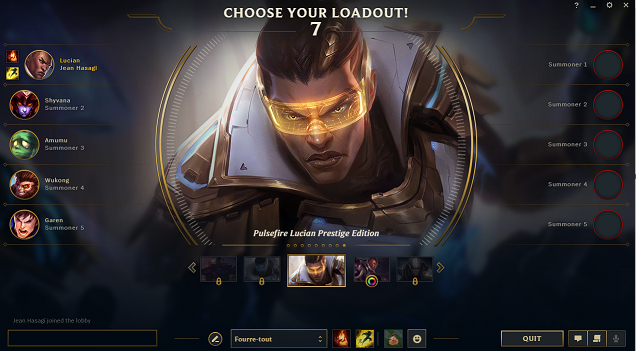
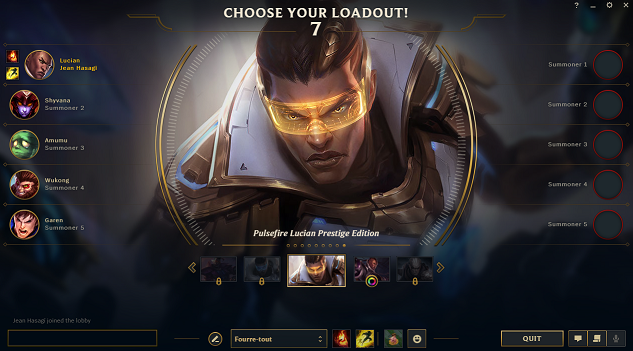
Correction de problèmes divers
- Image mal croppée
- Orthographe

diff --git a/map.html b/map.html
@@ -29,7 +29,7 @@
             <p class="caption">La carte de la Faille de l'invocateur, carte du mode de jeu principal. On peut y voir dans quelle direction doit se rendre chaque rôle.</p>
             <br>
             <div class="flexed_image">
-                <p>La Faille de l’Invocateur est une carte symétrique permettant un équilibre entre les équipe. Elle est délimitée par des voies (une en haut: le top, une au milieu: le mid et une en bas: le bot). Ces voies relient les deux bases entre-elles. Chaque équipe possède sur chacune d’elles deux tourelles que les joueurs devront attaquer pour avancer dans la base ennemie. Enfin, chaque base est défendue à ses portes par trois tours, derrière lesquelles sont protégés les inhibiteurs. Le coeur de la base, le nexus, est quant à lui défendu par deux tours, accessibles seulement si un inhibiteur a été détruit.</p>
+                <p>La Faille de l’Invocateur est une carte symétrique permettant un équilibre entre les équipes. Elle est délimitée par des voies (une en haut: le top, une au milieu: le mid et une en bas: le bot). Ces voies relient les deux bases entre-elles. Chaque équipe possède sur chacune d’elles deux tourelles que les joueurs devront attaquer pour avancer dans la base ennemie. Enfin, chaque base est défendue à ses portes par trois tours, derrière lesquelles sont protégés les inhibiteurs. Le coeur de la base, le nexus, est quant à lui défendu par deux tours, accessibles seulement si un inhibiteur a été détruit.</p>
                 <div>
                     <img src="images/map/Minimap.png" alt="La minimap" title="La minimap" width="128px"/>
                     <p class="caption" style="margin-left: 20px">La minimap</p>
@@ -68,8 +68,8 @@
                     <p class="caption">Le roncier rouge</p>
                 </div>
                 <div>
-                    <img src="images/map/Wolves.png" alt="Un des camps de monstre neutre" title="Un des camps de monstre neutre" height="200px"/>
-                    <p class="caption">Un des camps de monstre neutre</p>
+                    <img src="images/map/Wolves.png" alt="Un des camps de monstres neutres" title="Un des camps de monstres neutres" height="200px"/>
+                    <p class="caption">Un des camps de monstres neutres</p>
                 </div>
             </div>
             <br>
@@ -107,7 +107,7 @@
                 </div>
             </div>
             <br>
-            <p>À l’opposé se trouve l’enclos du Baron Nashor, octroyant un bonus des caractéristiques majeur et un bonus résistance et de dégâts sur les sbires alliés se trouvant à proximité. À noter qu'avant vingt minutes de jeu, le héraut de la faille est présent dans cet enclos à la place. La tuer permet d'obtenir un oeil de l'héraut. Cet objet sert à l'invoquer dans une ligne pour qu'elle attaque les tours adverses de cette ligne. Les dragons et le baron nashor sont les seuls points d'asymétrie de la carte, ce qui permettra un accès privilégié dans certaines conditions à chacun de ces enclos.</p>
+            <p>À l’opposé se trouve l’enclos du Baron Nashor, octroyant un bonus majeur des caractéristiques ainsi qu'un bonus de résistances et de dégâts pour les sbires alliés se trouvant à proximité de vous pendant trois minutes ou jusqu'à votre mort. À noter qu'avant vingt minutes de jeu, le héraut de la faille est présent dans cet enclos à la place. La tuer permet d'obtenir un oeil de l'héraut. Cet objet sert à l'invoquer dans une ligne pour qu'elle attaque les tours adverses de cette ligne. Les dragons et le baron nashor sont les seuls points d'asymétrie de la carte, ce qui permettra un accès privilégié dans certaines conditions à chacun de ces enclos.</p>
             <div class="flexed_image_centered">
                 <div>
                     <img src="images/map/Nashor.jpg" alt="Le baron Nashor" title="Le baron Nashor" height="200px"/>

diff --git a/data_items.js b/data_items.js
@@ -8,8 +8,8 @@ const data_items = [
     {"nom" : "Soif-de-sang",                "img" : "The_Bloodthirster_item.png",                  "description" : "Octroie un bonus d’AD et du vol de vie sur les attaques de base. Ce vol de vie permet de générer un bouclier avec les soins excessifs."},
     {"nom" : "Le couperet noir",            "img" : "The_Black_Cleaver_item.png",                  "description" : "Octroie un bonus de vie, d’AD et un bonus de vitesse de déplacement après avoir réussi une attaque de base. Vos attaques réduisent progressivement l’armure de la cible (jusqu’à -24%)."},
     {"nom" : "Fléau de liche",              "img" : "Lich_Bane_item.png",                          "description" : "Octroie un bonus d’AP, de mana et de vitesse de déplacement. Les dégâts d’une attaque de base suivant un sort sont augmentés et infligeront des dégâts magiques supplémentaires."},
-    {"nom" : "Zhonya",                      "img" : "Zhonya%2527s_Hourglass_item.png",             "description" : "Octroie un bonus d’AP et d’armure. Activable, vous devenez <b>invulnérable</b> pendant 3 secondes."},
-    {"nom" : "Guardian Angel",              "img" : "Guardian_Angel_item.png",                     "description" : "Lorsque vous mourrez, vous ressuscite avec la moitié de votre vie maximale et un tiers de votre mana. Gros cooldown."},
+    {"nom" : "Sablier de Zhonya",           "img" : "Zhonya%2527s_Hourglass_item.png",             "description" : "Octroie un bonus d’AP et d’armure. Activable, vous devenez <b>invulnérable</b> pendant 3 secondes."},
+    {"nom" : "Ange gardien",                "img" : "Guardian_Angel_item.png",                     "description" : "Lorsque vous mourrez, vous ressuscite avec la moitié de votre vie maximale et un tiers de votre mana. Gros cooldown."},
     {"nom" : "Lame du roi déchu",           "img" : "Blade_of_the_Ruined_King_item.png",           "description" : "Octroie un bonus d’AD, de vitesse d’attaque et du vol de vie. Vos attaques de base font des dégâts bonus en fonction des points de vie actuels de votre cible. Activable: vous volez de la vitesse de mouvement à votre cible."},
     {"nom" : "Ouragan de Runaan",           "img" : "Runaan%2527s_Hurricane_item.png",             "description" : "Octroie un bonus de vitesse d’attaque et augmente le taux des coups critiques. Vos attaques de base touchent deux cibles supplémentaires leur infligeant 40% des dégâts initiaux."},
     {"nom" : "Voeu du chevalier",           "img" : "Knight%2527s_Vow_item.png",                   "description" : "Octroie un bonus de vie et d’armure. Activable, vous vous liez à un allié. Vous vous accordez un bonus d’armure lorsque vous êtes proches, de plus vous prendrez une partie des dégâts à la place de l’allié choisi, les dégâts causés par cet allié vous rendront de la vie."},

diff --git a/leagues.html b/leagues.html
@@ -25,8 +25,8 @@
     <main>
         <div class="content">
             <h2 class="no_top_space">Le jeu compétitif et les leagues</h2>
-            <p>Lors de votre voyage au sein de League of Legends, il vous viendra peut-être l'envie de vous confronter aux autres joueurs de manière compétitive. Pour cela, LoL a un système de partie classées. er aux autres joueurs de manière compétitive. Pour cela, LoL a un système de partie classé. Vous commencerez donc par faire 10 partie de classement. Lors de ces parties, vous ne pourrez pas perdre de League Point (LP) si vous perdez et vous en gagnerez 50 si vous gagnez (ces points servent à déterminer votre avancé dans une division, nous en parlerons plus tard). Ainsi, vous progresserez très vite lors de ces 10 parties si vous êtes globalement meilleur que vos opposants. Après ces parties, vous découvrirez, avec horreur ou bonheur selon les cas, votre classement.</p>
-            <p>Dans l’ordre du moins méritant au plus prestigieux nous avons : Fer, Bronze, Argent, Or, Platine, Diamant, Maître, Grand Maître, Challenger. Généralement, les débutants arrivent Fer. Il vous faudra alors améliorer votre Elo pour devenir l’un des plus grands joueurs.</p>
+            <p>Lors de votre voyage au sein de League of Legends, il vous viendra peut-être l'envie de vous confronter aux autres joueurs de manière compétitive. Pour cela, LoL a un système de partie classées. Vous commencerez donc par faire 10 parties de classement. Lors de ces parties, vous ne pourrez pas perdre de League Point (LP) si vous perdez et vous en obtiendrez 50 si vous gagnez (ces points servent à déterminer votre avancée dans une division, nous en parlerons plus tard). Ainsi, vous progresserez très vite lors de ces 10 parties si vous êtes globalement meilleur que vos opposants. Après ces parties, vous découvrirez, avec horreur ou bonheur selon les cas, votre classement.</p>
+            <p>Dans l’ordre du moins méritant au plus prestigieux nous avons : Fer, Bronze, Argent, Or, Platine, Diamant, Maître, Grand Maître, Challenger. Généralement, les débutants arrivent Fer. Il vous faudra alors améliorer votre classement pour devenir l’un des plus grands joueurs.</p>
             <div class="flexed_image_centered">
                 <div>
                     <img src="images/leagues/Emblem_Iron.png" alt="Fer" title="Fer" height="100px">

diff --git a/data_tokens.js b/data_tokens.js
@@ -2,5 +2,5 @@ const data_tokens = [
     {"nom" : "Jaune : Ward basique",             "img" : "Warding_Totem_item.png",           "description" : "Vous donne de la vision pendant un laps de temps (qui augmente avec votre niveau), se détruit en 3 coups. La ward est invisible, à moins d'être révélée par le trinket rouge ou autre capacité/objet."},
     {"nom" : "Rouge : Lentille de l'oracle",     "img" : "Oracle_Lens_item.png",             "description" : "Révèle les wards cachées, ainsi que tout piège ou unitée cachée. Actif pendant dix secondes."},
     {"nom" : "Bleu : Altération Divinatoire",    "img" : "Farsight_Alteration_item.png",     "description" : "Fonctionne comme la ward basique avec un rayon beaucoup plus grand. Cependant, cette ward n'est pas cachée à l'ennemi et il peut la détruire en un coup."},
-    {"nom" : "Pink Ward, ou Control Ward",       "img" : "Control_Ward_item.png",            "description" : "Cet objet n'est pas un trinket ; il coûte 75 golds et occupe un emplacement d'item. La pink ward produit le même effet de vision que la ward basique. Son avantage est qu'elle reste active jusqu'à être détruite ou remplacée (un joueur ne peut avoir qu'une pink ward active à la fois)."},
+    {"nom" : "Pink Ward, ou Control Ward",       "img" : "Control_Ward_item.png",            "description" : "Cet objet n'est pas un trinket ; il coûte 75 golds et occupe un emplacement d'item. La pink ward produit le même effet de vision que la ward basique, en plus de révéler les ennemis invisibles. Son gros avantage est qu'elle reste active jusqu'à être détruite ou remplacée (un joueur ne peut avoir qu'une pink ward active à la fois)."},
 ];

diff --git a/items.html b/items.html
@@ -25,8 +25,8 @@
     <main>
         <div class="content">
             <h2 class="no_top_space">Les items</h2>
-            <p>La plupart des items de League of Legends s'achètent sur la durée, c’est-à-dire qu’au premier retour à la base, on achète une première partie de l’objet que l’on souhaite acheter (ce qui donne un petite partie des effets de l’item en question), puis après avoir amassé quelques gold en plus, le joueur achète une seconde partie de l’objet, etc. Cela peut évidemment varier en fonction de la partie, si vous faites beaucoup de kills, vous pourrez prendre plus d’objet et inversement.</p>
-            <p>Nous allons donc lister quelques objets avec leur effets.</p>
+            <p>La plupart des items de League of Legends s'achètent sur la durée, c’est-à-dire qu’au premier retour à la base, on achète une première partie de l’objet que l’on souhaite acheter (ce qui donne un petite partie des effets de l’item en question), puis après avoir amassé quelques gold en plus, le joueur achète une seconde partie de l’objet, etc. Cela peut évidemment varier en fonction de la partie ; si vous faites beaucoup de kills, vous pourrez prendre plus d’objets.</p>
+            <p>Nous allons donc lister quelques objets avec leurs effets.</p>
             <input type="text" id="search_input" onkeyup="search()" placeholder="Rechercher un objet...">
             <div class="items" id="finished_items_list"></div>
 

diff --git a/credits.html b/credits.html
@@ -51,7 +51,7 @@
 
             <article>
                 <h3>Alexandre Poloubinski</h3>
-                <p>Alexandre s’est principalement occupé de la récolte de ressources (image, liste des champions et objets), ce qui fût une tâche conséquente compte tenu leur nombre sur le site. Il a également contribué à l’écriture des textes très complets, ainsi que leur insertion dans le site. Enfin, il a participé à l’encodage des ressources en format pratique pour l’ordinateur (écriture des fichiers de données).</p>
+                <p>Alexandre s’est principalement occupé de la récolte de ressources (images, liste des champions et objets), ce qui fût une tâche conséquente compte tenu leur nombre sur le site. Il a également contribué à l’écriture des textes très complets, ainsi que leur insertion dans le site. Enfin, il a participé à l’encodage des ressources en format pratique pour l’ordinateur (écriture des fichiers de données).</p>
                 <img src="images/portraits/Alexandre.JPG" alt="Portait d'Alexandre" width="30%"/>
                 <div class="flexed_image">
                     <a href="https://www.facebook.com/alexandre.poloubinski" target="_blank"> <img src="images/social-icons/Facebook.png" width="40px" alt="Facebook"> </a>
